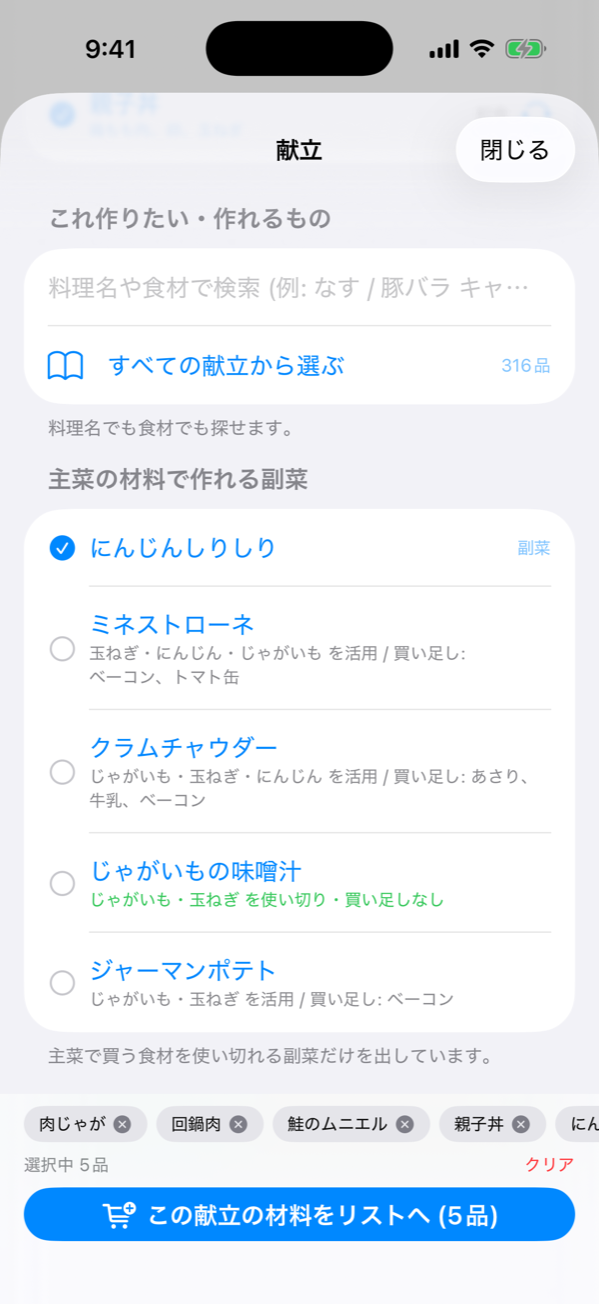
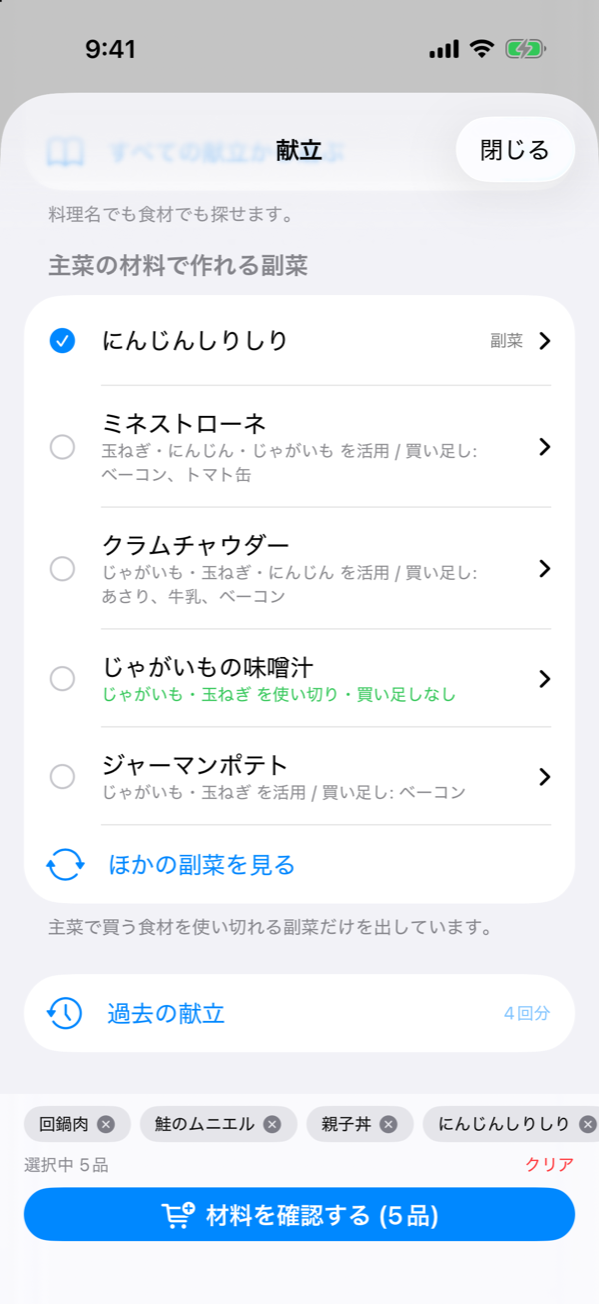
LP: retake meal screenshots for v1.0.6 UI (材料を確認する, ほかの副菜を見る)
Claude-Session: https://claude.ai/code/session_01FMCRWzvPhcvziaPHEKrLdF

diff --git a/kago/index.html b/kago/index.html
@@ -207,7 +207,7 @@
   <!-- 実スクショ差し込みまでの CSS モック -->
   <div class="phone reveal">
     <div class="screen">
-      <img src="screenshots/07_meal_proposal.png" alt="献立の提案画面 — 肉じゃが・回鍋肉・鮭のムニエル・親子丼の 4 品が選ばれ、下に「この献立の材料をリストへ」ボタン" style="display:block;width:100%">
+      <img src="screenshots/07_meal_proposal.png" alt="献立の提案画面 — 回鍋肉・鮭のムニエル・親子丼・肉じゃがの 4 品が選ばれ、下に「材料を確認する」ボタン" style="display:block;width:100%">
     </div>
   </div>
 </header>
@@ -219,7 +219,7 @@
     <div class="rule-head reveal"><span class="check" aria-hidden="true"></span><h2><span>今夜なに作ろう、</span><span>から始めない</span></h2><span class="num">01</span></div>
     <span class="eyebrow reveal">FEATURE — 献立の提案</span>
     <p class="lead reveal">「4 品」と決めるだけで、和食・洋食・中華をまぜて献立を提案します。気に入らない一品は、その場で差し替え。</p>
-    <div class="shot-phone reveal"><img src="screenshots/07_meal_proposal.png" alt="献立の提案画面 — 肉じゃが・回鍋肉・鮭のムニエル・親子丼の 4 品が選ばれ、下に「この献立の材料をリストへ」ボタン"></div>
+    <div class="shot-phone reveal"><img src="screenshots/07_meal_proposal.png" alt="献立の提案画面 — 回鍋肉・鮭のムニエル・親子丼・肉じゃがの 4 品が選ばれ、下に「材料を確認する」ボタン"></div>
     <p class="lead reveal" style="margin-top:38px">決まったら、材料はまとめて買い物リストへ。玉ねぎもにんじんも、複数の献立で使うものは 1 行にまとまり、家にある調味料は入りません。</p>
     <div class="shot-pair reveal">
       <figure class="shot-phone"><img src="screenshots/09_meal_confirm.png" alt="材料の確認画面 — 複数の献立で使う玉ねぎ・にんじん・卵が先頭にまとまり、献立ごとの材料にチェックが付いている"><figcaption>材料は、献立をまたいでひとつに</figcaption></figure>
@@ -227,7 +227,7 @@
     </div>
     <p class="lead reveal" style="margin-top:38px">主菜で買う食材から、副菜も。「玉ねぎとにんじんを活用、買い足しはベーコンだけ」— 使い切れる組み合わせだけを出します。作ったら、チェック。作り忘れは「過去の献立」から戻せます。</p>
     <div class="shot-pair reveal">
-      <figure class="shot-phone"><img src="screenshots/08_meal_sides.png" alt="副菜の提案 — 主菜の材料と共有する食材と、買い足しが必要な材料が各副菜に表示されている"><figcaption>主菜の材料で作れる副菜</figcaption></figure>
+      <figure class="shot-phone"><img src="screenshots/08_meal_sides.png" alt="副菜の提案 — 主菜の材料と共有する食材と、買い足しが必要な材料が各副菜に表示され、下に「ほかの副菜を見る」ボタン"><figcaption>主菜の材料で作れる副菜</figcaption></figure>
       <figure class="shot-phone"><img src="screenshots/10_meal_weekly.png" alt="今週の献立 — 4 品のうち 2 品にチェックが付き、クリームシチューを展開すると材料と「作り方を見る」ボタンが表示されている"><figcaption>作ったら ✓、進みが見える</figcaption></figure>
     </div>
     <p class="lead reveal" style="margin-top:38px">316 品の献立を内蔵。作り方は、レシピサイトの検索結果へ 1 タップで飛べます。</p>
